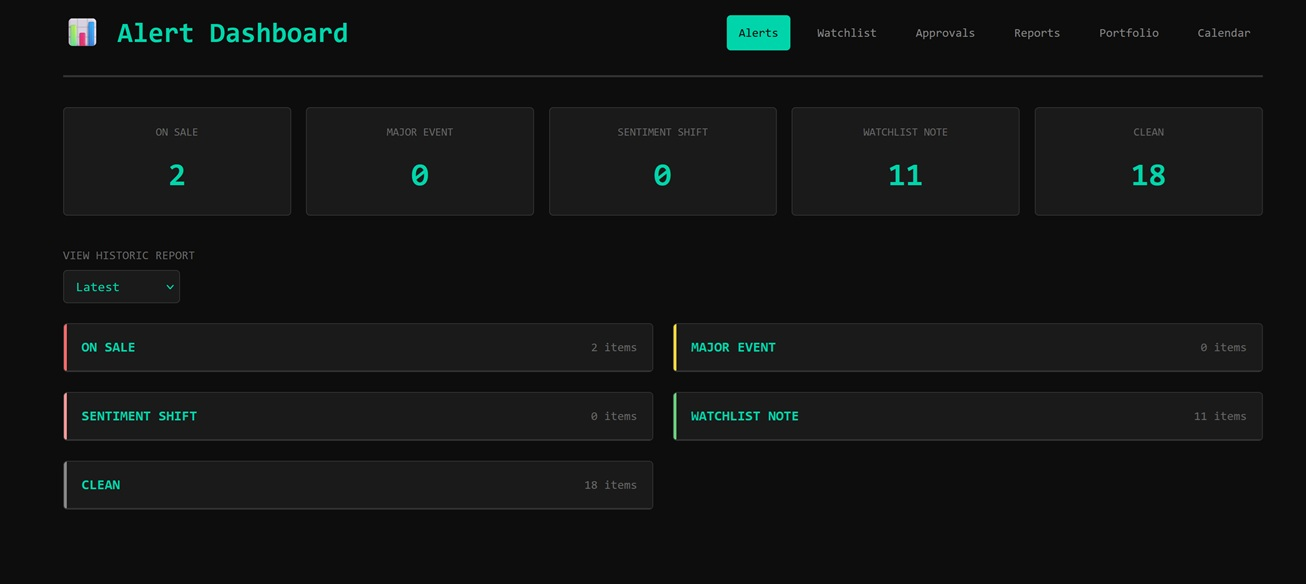
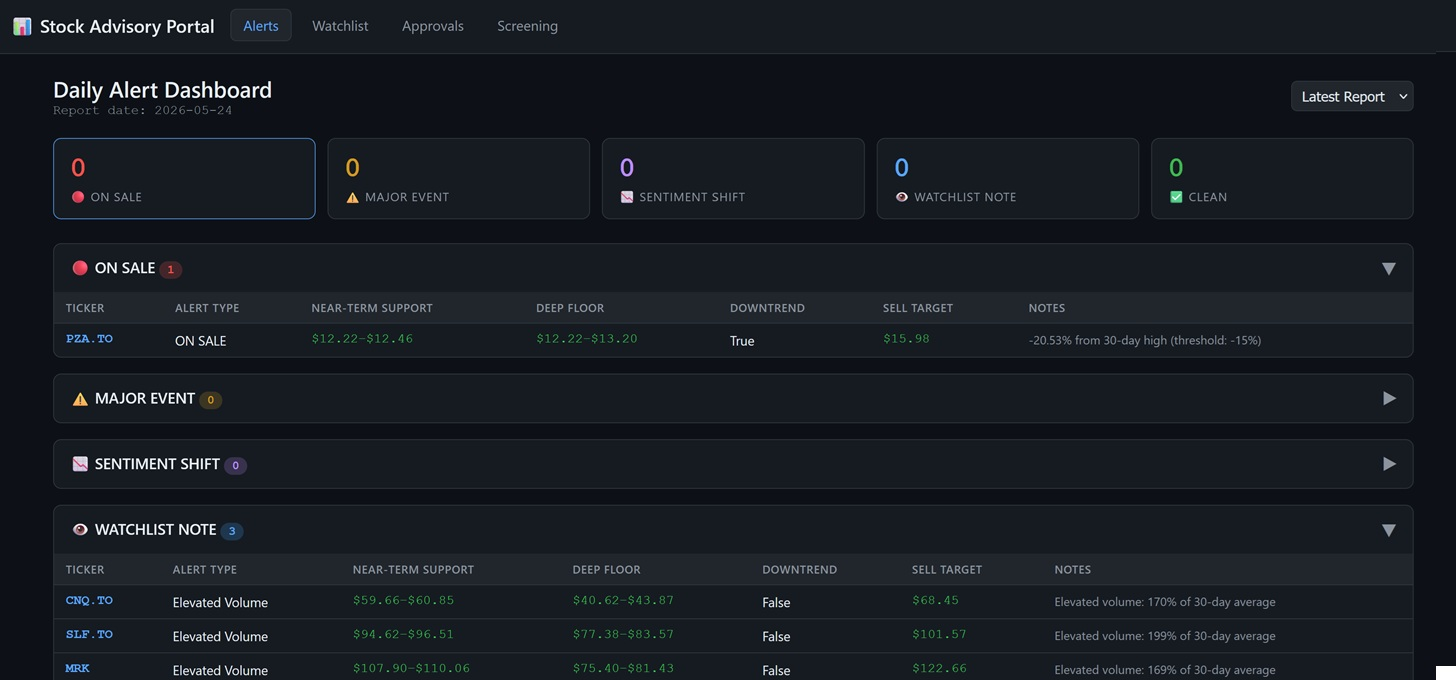
docs: update screenshots, paperclip skill, and advisory setup examples

diff --git a/docs/examples/paperclip-task-advisory-system-setup.md b/docs/examples/paperclip-task-advisory-system-setup.md
@@ -1,4 +1,4 @@
-# Advisory System Setup: Stock Portal, Daily Monitor, and Weekly Screener
+# Advisory System Setup: Stock Portal, Daily Monitor, and Monthly Screener
 
 Execute the following three actions in order:
 
@@ -6,11 +6,16 @@ Execute the following three actions in order:
 2. Delegate the portal build to the Full Stack Developer (SUB-TASK A).
 3. Verify completion criteria, post a summary comment, and close this issue.
 
+> **CONSTRAINT — ALL ROUTINES MUST BE PAPERCLIP ROUTINES**
+> Do NOT create Claude Code cloud routines (claude.ai/code/routines or the /schedule skill).
+> Both routines in SUB-TASK B must be registered exclusively via the Paperclip routines API.
+> Creating routines in any other system is a task failure.
+
 ---
 
 ## FILE FORMAT CONTRACT
 
-The portal parses markdown files produced by the daily and weekly routines. Both the portal developer and the routine issue bodies must conform to these specifications exactly.
+The portal parses markdown files produced by the daily and monthly routines. Both the portal developer and the routine issue bodies must conform to these specifications exactly.
 
 ### Daily Alert Files
 
@@ -39,10 +44,10 @@ Every ticker entry in sections ON SALE through CLEAN must use this exact table s
 |--------|-----------|------------------|------------|-----------|-------------|-------|
 ```
 
-### Weekly Screen Files
+### Monthly Screen Files
 
-**Path:** `/exchange/outbox/openclaw/weekly-screen-{YYYY-MM-DD}.md`
-**Glob pattern used by portal:** `weekly-screen-*.md`
+**Path:** `/exchange/outbox/openclaw/monthly-screen-{YYYY-MM-DD}.md`
+**Glob pattern used by portal:** `monthly-screen-*.md`
 
 Required sections:
 ```
@@ -72,6 +77,21 @@ Create a Paperclip issue for the Full Stack Developer (opencode agent) with the 
 Build the Stock Advisory Portal as specified below. The portal covers the stock workflow UI only — it does not replicate Paperclip dashboard functionality. No agent config, no budget views, no activity feed.
 
 
+### STEP 0 — VERIFY PAPERCLIP API CONNECTIVITY BEFORE BUILDING ANYTHING
+
+Before writing any portal code, confirm the Paperclip API is reachable from this container and that your credentials work. Run:
+
+```sh
+curl -s -o /dev/null -w "%{http_code}" \
+  -H "Authorization: Bearer $PAPERCLIP_API_KEY" \
+  "$PAPERCLIP_API_URL/api/agents/me"
+```
+
+Expected result: HTTP 200. If you get anything else, **stop and post a comment** with the error and the value of `$PAPERCLIP_API_URL` — do not proceed with the portal build until this is resolved.
+
+Once confirmed, use the verified `$PAPERCLIP_API_URL` value as the Paperclip base URL in `server.js`. Never hardcode a URL — always read it from `process.env.PAPERCLIP_API_URL` at runtime so that the portal works correctly regardless of environment.
+
+
 ### SERVE CONVENTIONS — MANDATORY
 
 The only server allowed is `/exchange/outbox/opencode/serve/server.js` on port 9081. Never start a server outside that path. Before starting, check whether the server is already running by reading `serve-process.json`. Always start in background mode: `node /exchange/outbox/opencode/serve/server.js &` followed by `disown`. Static files go in `/exchange/outbox/opencode/serve/www/stock-portal/`. Register the service as `stock-portal` in `serve-process.json`. Host access is `http://localhost:9081/stock-portal`. Use `http://opencode:9081/stock-portal` when verifying from openclaw.
@@ -86,13 +106,13 @@ The portal parses files produced by two routines. Use these exact specifications
 - Sections (parse by `## heading`): ON SALE, MAJOR EVENT, SENTIMENT SHIFT, WATCHLIST NOTE, CLEAN, Data Issues, Sources
 - Table columns (parse by exact heading names): `Ticker | Alert Type | Near-Term Support | Deep Floor | Downtrend | Sell Target | Notes`
 
-**Weekly screen files** at `/exchange/outbox/openclaw/weekly-screen-{YYYY-MM-DD}.md`:
+**Monthly screen files** at `/exchange/outbox/openclaw/monthly-screen-{YYYY-MM-DD}.md`:
 - Sections: Executive Summary, Finalist Recommendations, Scoring Table, Not Recommended, Sources
 - Finalists as `### TICKER` subsections under Finalist Recommendations
 - Per-finalist fields: Sector, Current price and market cap, Yield, 10-year high/low, Cycle position %, Prior recovery, Cyclical macro driver, Income history, P/E, Revenue growth, D/E, FCF, Analyst consensus, Alert threshold
 
 
-### BUILD SIX SCREENS
+### BUILD FOUR SCREENS
 
 
 **1. Alert Dashboard (`index.html`)**
@@ -102,27 +122,17 @@ Reads the latest `/exchange/outbox/openclaw/daily-alert-*.md` file (newest by fi
 
 **2. Watchlist Manager (`watchlist.html`)**
 
-Reads `/exchange/inbox/openclaw/approved_stocks.md`. Displays a read-only table of all tickers with status badges (Active Monitoring, Paused, Removed).
+Reads `/exchange/inbox/openclaw/approved_stocks.md`. Displays a table of all tickers with columns: Ticker, Company, Date Added, Alert Threshold, Notes, Status. Each row includes an **Active Monitoring toggle button** that switches the ticker between Active Monitoring and Paused by calling `PATCH /stock-portal/api/watchlist/:ticker/status`. The button label and style must reflect current state: green "Active" when monitoring is on, grey "Paused" when off. The toggle rewrites the ticker's section in `approved_stocks.md` (moving the row between `## Active Monitoring` and `## Paused`). No Entry Price column.
 
 
 **3. Approval Queue (`approvals.html`)**
 
-Reads pending board approval requests from the Paperclip API. Displays each candidate card with ticker, yield, cycle position, investment thesis, and a link to the full screening report. Read-only — approvals are actioned in the Paperclip board. The Paperclip host is reachable from the container at `http://host.docker.internal` on its API port; read `docs/ops-reference.md` for the exact endpoint, or expose the port via an environment variable `PAPERCLIP_API_URL`.
+Reads pending board approval requests from the Paperclip API. Displays each candidate card with ticker, yield, cycle position, investment thesis, and a link to the full screening report. Read-only — approvals are actioned in the Paperclip board. Use `process.env.PAPERCLIP_API_URL` and `process.env.PAPERCLIP_API_KEY` in `server.js` — both are confirmed available after Step 0.
 
 
 **4. Screening Reports (`screening.html`)**
 
-Lists all `/exchange/outbox/openclaw/weekly-screen-*.md` files newest first. Renders each as styled HTML: Executive Summary at top, then finalist cards (one per `### TICKER` subsection), then the Scoring Table as a sortable HTML table.
-
-
-**5. Portfolio Tracker (`portfolio.html`)**
-
-Reads entry prices from `approved_stocks.md` (the `Entry Price` column; skip tickers with no entry price). Fetches live prices from Yahoo Finance via `server.js` using Node built-in `https` (no npm). Shows unrealised P&L per position with a refresh button.
-
-
-**6. Earnings Calendar (`calendar.html`)**
-
-Reads `/exchange/outbox/opencode/earnings-calendar.md` and shows upcoming earnings dates for all watchlist stocks. If the file does not exist, show: "No earnings calendar found. Run the earnings calendar script to generate it."
+Lists all `/exchange/outbox/openclaw/monthly-screen-*.md` files newest first. Renders each as styled HTML: Executive Summary at top, then finalist cards (one per `### TICKER` subsection), then the Scoring Table as a sortable HTML table.
 
 
 ### API ROUTES
@@ -134,11 +144,10 @@ GET /stock-portal/api/alerts/latest
 GET /stock-portal/api/alerts/history
 GET /stock-portal/api/alerts/:date
 GET /stock-portal/api/watchlist
+PATCH /stock-portal/api/watchlist/:ticker/status
 GET /stock-portal/api/approvals
 GET /stock-portal/api/screening
 GET /stock-portal/api/screening/:date
-GET /stock-portal/api/portfolio
-GET /stock-portal/api/calendar
 ```
 
 
@@ -149,13 +158,12 @@ No npm, no build step, no external CDN. Node.js built-ins only for `server.js`. 
 
 ### BUILD ORDER
 
+0. Verify Paperclip API connectivity (Step 0 above) — do not proceed until HTTP 200 confirmed
 1. `server.js` with all API routes (stub responses first, real data wired in as each screen is built)
 2. Alert Dashboard (`index.html`) — wire to real alert data
-3. Watchlist Manager (`watchlist.html`)
+3. Watchlist Manager (`watchlist.html`) — read + status toggle
 4. Approval Queue (`approvals.html`)
 5. Screening Reports (`screening.html`)
-6. Portfolio Tracker (`portfolio.html`)
-7. Earnings Calendar (`calendar.html`)
 
 Write a `README.md` in `/exchange/outbox/opencode/serve/www/stock-portal/` documenting how to access the portal, all data source paths, and known limitations.
 
@@ -165,9 +173,10 @@ When complete, verify the portal is accessible at `http://opencode:9081/stock-po
 
 ## SUB-TASK B — Routine Setup
 
-Read `skills/paperclip/SKILL.md` for the routines API before registering these routines.
+Read `skills/paperclip/SKILL.md` for the Paperclip routines API.
+Register both routines **in Paperclip only** — do not use the Claude Code /schedule skill or create claude.ai cloud routines under any circumstances.
 
-Check whether each routine already exists before creating it. If a routine for the daily monitor or weekly screener is already registered, skip creating it and note the existing routine ID in your closing comment.
+Check whether each routine already exists before creating it. If a routine for the daily monitor or monthly screener is already registered, skip creating it and note the existing routine ID in your closing comment.
 
 
 ### ROUTINE 1 — Daily Stock Monitor
@@ -233,18 +242,18 @@ When done, post a closing comment listing all flagged tickers grouped by categor
 ```
 
 
-### ROUTINE 2 — Weekly Stock Screener
+### ROUTINE 2 — Monthly Stock Screener
 
-**Trigger:** Sunday, 18:00 local time (cron: `0 18 * * 0`)
+**Trigger:** 1st of each month, 18:00 local time (cron: `0 18 1 * *`)
 **Assigned to:** Financial Research Analyst
-**Concurrency policy:** skip if an issue already exists for this week's date
+**Concurrency policy:** skip if an issue already exists for this month
 
-**Issue title template:** `stock-analyst-weekly-{YYYY-MM-DD}`
+**Issue title template:** `stock-analyst-monthly-{YYYY-MM-DD}`
 
 **Issue body template:**
 
 ```
-Run the weekly stock screening pass for the week of {YYYY-MM-DD}.
+Run the monthly stock screening pass for {YYYY-MM-DD}.
 
 Read /exchange/inbox/openclaw/screening_criteria.md for all criteria: sectors, hard filters, pool size, finalist count, and ranking weights. Do not use hardcoded values.
 
@@ -264,7 +273,7 @@ Rank by criteria in screening_criteria.md (typically: depth into historical cycl
 
 OUTPUT
 
-Write to /exchange/outbox/openclaw/weekly-screen-{YYYY-MM-DD}.md.
+Write to /exchange/outbox/openclaw/monthly-screen-{YYYY-MM-DD}.md.
 
 Required sections:
 ## Executive Summary
@@ -279,7 +288,7 @@ BOARD APPROVALS
 For each finalist, file a request_board_approval via the Paperclip API:
 - Title: Add [TICKER] to watchlist? — Cyclical income play
 - Body: one paragraph covering yield, current cycle position (% of 10-year range), and investment thesis
-- Report path: /exchange/outbox/openclaw/weekly-screen-{YYYY-MM-DD}.md
+- Report path: /exchange/outbox/openclaw/monthly-screen-{YYYY-MM-DD}.md
 
 Do not file for candidates that did not make the finalist list.
 
@@ -296,6 +305,6 @@ When done:
 
 Close this issue when all three of the following are true:
 
-1. **Portal is live:** `http://opencode:9081/stock-portal` is accessible and all six screens load without errors. The Alert Dashboard renders the latest `daily-alert-*.md` file correctly, showing all five category counts.
-2. **Routines are registered:** Both the Daily Stock Monitor and Weekly Stock Screener routines are active in Paperclip.
+1. **Portal is live:** `http://opencode:9081/stock-portal` is accessible and all four screens load without errors. The Alert Dashboard renders the latest `daily-alert-*.md` file correctly, showing all five category counts. The Watchlist Manager toggle buttons successfully move tickers between Active Monitoring and Paused.
+2. **Routines are registered in Paperclip:** Both the Daily Stock Monitor and Monthly Stock Screener routines are active in Paperclip (verified via the Paperclip routines API). No Claude Code cloud routines (claude.ai/code/routines) have been created as part of this setup.
 3. **Comment posted:** A closing comment lists the portal URL, both routine IDs, and a one-paragraph summary of what was built and registered.

diff --git a/skills/paperclip/SKILL.md b/skills/paperclip/SKILL.md
@@ -1,5 +1,4 @@
-<!-- PAPERCLIP_API_URL=http://host.docker.internal:3100 -->
----
+---
 name: paperclip
 description: >
   Interact with the Paperclip control plane API to manage tasks, coordinate with
@@ -16,7 +15,13 @@ You run in **heartbeats** — short execution windows triggered by Paperclip. Ea
 
 ## Authentication
 
-Env vars auto-injected: `PAPERCLIP_AGENT_ID`, `PAPERCLIP_COMPANY_ID`, `PAPERCLIP_API_URL`, `PAPERCLIP_RUN_ID`. Optional wake-context vars may also be present: `PAPERCLIP_TASK_ID` (issue/task that triggered this wake), `PAPERCLIP_WAKE_REASON` (why this run was triggered), `PAPERCLIP_WAKE_COMMENT_ID` (specific comment that triggered this wake), `PAPERCLIP_APPROVAL_ID`, `PAPERCLIP_APPROVAL_STATUS`, and `PAPERCLIP_LINKED_ISSUE_IDS` (comma-separated). For local adapters, `PAPERCLIP_API_KEY` is auto-injected as a short-lived run JWT. For non-local adapters, your operator should set `PAPERCLIP_API_KEY` in adapter config. All requests use `Authorization: Bearer $PAPERCLIP_API_KEY`. All endpoints under `/api`, all JSON. Never hard-code the API URL.
+Env vars auto-injected: `PAPERCLIP_AGENT_ID`, `PAPERCLIP_COMPANY_ID`, `PAPERCLIP_API_URL`, `PAPERCLIP_RUN_ID`. Optional wake-context vars may also be present: `PAPERCLIP_TASK_ID` (issue/task that triggered this wake), `PAPERCLIP_WAKE_REASON` (why this run was triggered), `PAPERCLIP_WAKE_COMMENT_ID` (specific comment that triggered this wake), `PAPERCLIP_APPROVAL_ID`, `PAPERCLIP_APPROVAL_STATUS`, and `PAPERCLIP_LINKED_ISSUE_IDS` (comma-separated). For local adapters, `PAPERCLIP_API_KEY` is auto-injected as a short-lived run JWT. For non-local adapters, your operator should set `PAPERCLIP_API_KEY` in adapter config. All requests use `Authorization: Bearer $PAPERCLIP_API_KEY`. All endpoints under `/api`, all JSON. **Never hard-code the API URL — always use `$PAPERCLIP_API_URL`.**
+
+**`$PAPERCLIP_API_URL` value by agent type:**
+- **Host-based agents (`claude_local` / CEO):** `$PAPERCLIP_API_URL` = `http://localhost:3100`. You run directly on the host machine — `localhost` is the host, not a container. Do NOT use `host.docker.internal`.
+- **Container-based agents (openclaw, opencode):** `$PAPERCLIP_API_URL` = `http://host.docker.internal:3100`. Inside a Docker container, `localhost` refers to the container itself; `host.docker.internal` reaches the host where Paperclip runs.
+
+**opencode (SSH adapter) only:** `PAPERCLIP_API_URL` and `PAPERCLIP_API_KEY` are injected as container environment variables and written to `/root/.bashrc` — they are available in all SSH sessions without any additional setup. Use `Authorization: Bearer $PAPERCLIP_API_KEY` for all requests. Wake-context vars (`PAPERCLIP_RUN_ID`, `PAPERCLIP_TASK_ID`, etc.) are injected per-run by Paperclip when tasks execute through the SSH adapter.
 
 Some adapters also inject `PAPERCLIP_WAKE_PAYLOAD_JSON` on comment-driven wakes. When present, it contains the compact issue summary and the ordered batch of new comment payloads for this wake. Use it first. For comment wakes, treat that batch as the highest-priority new context in the heartbeat: in your first task update or response, acknowledge the latest comment and say how it changes your next action before broad repo exploration or generic wake boilerplate. Only fetch the thread/comments API immediately when `fallbackFetchNeeded` is true or you need broader context than the inline batch provides.
 
